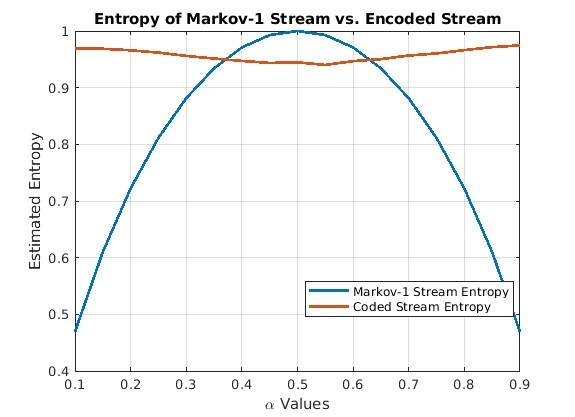
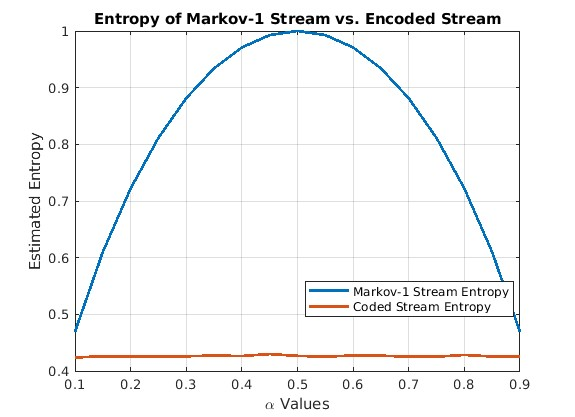
update

Changed region(s): [[0.1183, 0.0935, 0.9165, 0.1559], [0.1183, 0.8417, 0.9165, 0.8729]]

diff --git a/calculate_entropy_rate.m b/calculate_entropy_rate.m
@@ -1,53 +1,22 @@
 function H = calculate_entropy_rate(encoded_stream, m)
-    % Initialize a map to store context counts
-    context_counts = containers.Map('KeyType', 'char', 'ValueType', 'any');
+    encoded_str = num2str(encoded_stream);
+    symbol_counts = [sum(encoded_stream == 0), sum(encoded_stream == 1)];
+    symbol_probs = symbol_counts / length(encoded_stream);
     
-    % Convert the input stream to char if it is a string
-    if isstring(encoded_stream)
-        encoded_stream = char(encoded_stream);
+    block_probs = zeros(1, 2^m);
+    for i = m+1:length(encoded_stream)
+       context = encoded_str(i-m:i-1);
+       context_index = bin2dec(context) + 1; % Convert binary to decimal index
+       block_probs(context_index) = block_probs(context_index) + 1;
     end
-
-    % Count occurrences for each context of length m
-    for i = 1:(length(encoded_stream) - m)
-        context = encoded_stream(i:i+m-1);
-        next_symbol = encoded_stream(i+m);
-        
-        % Convert context to char to use as a key
-        context_char = char(context);
-        
-        if ~isKey(context_counts, context_char)
-            context_counts(context_char) = containers.Map('KeyType', 'char', 'ValueType', 'double');
+    block_probs = block_probs / (length(encoded_stream) - m);
+    block_entropies = zeros(1, 2^m);
+    for i = 1:2^m
+        if block_probs(i) > 0
+            p = block_probs(i);
+            block_entropies(i) = -p * log2(p) - (1-p) * log2(1-p);
         end
-        symbol_counts = context_counts(context_char);
-        if isKey(symbol_counts, char(next_symbol))
-            symbol_counts(char(next_symbol)) = symbol_counts(char(next_symbol)) + 1;
-        else
-            symbol_counts(char(next_symbol)) = 1;
-        end
-
     end
-    
-    % Initialize total entropy
-    total_entropy = 0;
-    
-    % Calculate conditional entropy for each context
-    context_keys = keys(context_counts);
-    for i = 1:length(context_keys)
-        context = context_keys{i};
-        symbol_counts = context_counts(context);
-        context_total = sum(cell2mat(values(symbol_counts)));
-        context_entropy = 0;
-        
-        symbol_keys = keys(symbol_counts);
-        for j = 1:length(symbol_keys)
-            symbol = symbol_keys{j};
-            count = symbol_counts(symbol);
-            p_symbol_given_context = count / context_total;
-            context_entropy = context_entropy - p_symbol_given_context * log2(p_symbol_given_context);
-        end
-        total_entropy = total_entropy + context_entropy;
-    end
-    
-    % Average the entropy over all contexts
-    H = total_entropy / length(context_keys);
+    H = block_entropies * block_probs'; 
 end
+    

diff --git a/markov1_arithmetic_encoder.m b/markov1_arithmetic_encoder.m
@@ -8,32 +8,33 @@ function encoded_bits = markov1_arithmetic_encoder(input_stream, alpha, N, P)
     beta = alpha; 
     encoded_bits = []; 
     mask = 2^(N+P) - 1; 
-    scaling_factor = 100; % a scaling factor is added for plotting purpose
-    alpha_scaled = round(alpha * scaling_factor); 
-    beta_scaled = round(beta * scaling_factor);
 
     for n = 1:length(input_stream)
         x_current = input_stream(n); 
-        % compute for p0
+        % compute for fx0
+        % notice that for memory less source, fx0 and fx1 is constant
+        % however, for markov1 proces, fx0 and fx1 changes depending on the previous bit 
         if n == 1
-            p0_scaled = 0.5;
+            fx0 = 0.5;
         else
             if input_stream(n-1) == '0'
                 if x_current == '0' 
-                    p0_scaled = (scaling_factor - alpha_scaled); 
+                    fx0 = 1-alpha; 
                 else 
-                    p0_scaled = alpha_scaled;
+                    fx1 = alpha;
                 end
             else
                 if x_current == '0' 
-                    p0_scaled = beta_scaled;
+                    fx0 = beta;
                 else 
-                    p0_scaled = (scaling_factor - beta_scaled); 
+                    fx1 = 1-beta; 
                 end
             end
         end
         % T = A * p0
-        T = A * p0_scaled;
+        % p0 = ⌊2^P* f_X(x = 0)⌋
+        p0 =floor(2^P*fx0);
+        T = A * p0;
         % IF xn = 1
         %     C = C + T
         %     T = bitshift(A,P) - T;

diff --git a/question_4_2.m b/question_4_2.m
@@ -35,5 +35,5 @@ hold off;
 xlabel('\alpha Values');
 ylabel('Estimated Entropy');
 title('Entropy of Markov-1 Stream vs. Encoded Stream');
-legend('show');
+legend('show', 'Location', 'best');
 grid on; 
